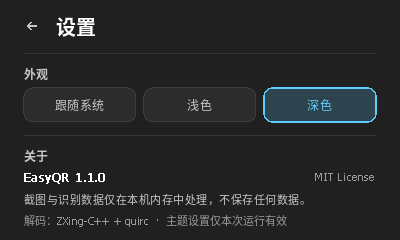
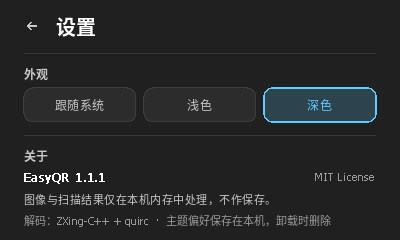
Persist theme preference (1.1.1)

diff --git a/src/main.cpp b/src/main.cpp
@@ -58,6 +58,27 @@ bool IsDarkThemePreferred() {
     return false;
 }
 
+ThemeMode LoadThemePreference() {
+    DWORD value = 0;
+    DWORD size = sizeof(value);
+    const LSTATUS status = RegGetValueW(HKEY_CURRENT_USER, L"Software\\EasyQR", L"ThemeMode",
+                                        RRF_RT_REG_DWORD, nullptr, &value, &size);
+    if (status == ERROR_SUCCESS && value <= 2) return static_cast<ThemeMode>(value);
+    return ThemeMode::System;
+}
+
+void SaveThemePreference(ThemeMode mode) {
+    HKEY key = nullptr;
+    if (RegCreateKeyExW(HKEY_CURRENT_USER, L"Software\\EasyQR", 0, nullptr, 0, KEY_SET_VALUE,
+                        nullptr, &key, nullptr) != ERROR_SUCCESS) {
+        return;
+    }
+    const DWORD value = static_cast<DWORD>(mode);
+    RegSetValueExW(key, L"ThemeMode", 0, REG_DWORD, reinterpret_cast<const BYTE*>(&value),
+                   sizeof(value));
+    RegCloseKey(key);
+}
+
 void SetDwmAttribute(HWND hwnd, DWORD attribute, const void* value, DWORD size) {
     if (hwnd) DwmSetWindowAttribute(hwnd, attribute, value, size);
 }
@@ -328,15 +349,15 @@ void DrawSettings(ID2D1HwndRenderTarget* rt) {
                TextAlign::Trailing, true);
 
     SetBrushColor(g_app.brush.Get(), g_app.palette.secondary);
-    DrawTextEx(rt, g_app.dwrite.Get(), L"截图与识别数据仅在本机内存中处理，不保存任何数据。",
+    DrawTextEx(rt, g_app.dwrite.Get(), L"图像与扫描结果仅在本机内存中处理，不作保存。",
                g_app.fonts.footer.Get(), D2D1::RectF(24.0f, 190.0f, 376.0f, 208.0f),
                g_app.brush.Get(), TextAlign::Leading, true, true);
 
     SetBrushColor(g_app.brush.Get(), g_app.palette.tertiary);
     DrawTextEx(rt, g_app.dwrite.Get(),
-               L"解码：ZXing-C++ + quirc  ·  主题设置仅本次运行有效", g_app.fonts.chipSmall.Get(),
-               D2D1::RectF(24.0f, 210.0f, 376.0f, 230.0f), g_app.brush.Get(),
-               TextAlign::Leading, true, true);
+               L"解码：ZXing-C++ + quirc  ·  主题偏好保存在本机，卸载时删除",
+               g_app.fonts.chipSmall.Get(), D2D1::RectF(24.0f, 210.0f, 376.0f, 230.0f),
+               g_app.brush.Get(), TextAlign::Leading, true, true);
 }
 
 void PaintMainWindow(HWND hwnd) {
@@ -619,6 +640,7 @@ void SetThemeMode(ThemeMode mode) {
     const bool dark = mode == ThemeMode::System ? g_app.systemDark : mode == ThemeMode::Dark;
     g_app.dark = dark;
     g_app.palette = MakePalette(dark);
+    SaveThemePreference(mode);
     ApplyWindowTheme(g_app.hwnd, dark);
     if (g_app.hwnd) InvalidateRect(g_app.hwnd, nullptr, FALSE);
 }
@@ -661,8 +683,9 @@ int WINAPI wWinMain(HINSTANCE instance, HINSTANCE, PWSTR, int showCommand) {
     }
 
     g_app.systemDark = IsDarkThemePreferred();
-    g_app.themeMode = ThemeMode::System;
-    g_app.dark = g_app.systemDark;
+    g_app.themeMode = LoadThemePreference();
+    g_app.dark = g_app.themeMode == ThemeMode::System ? g_app.systemDark
+                                                      : g_app.themeMode == ThemeMode::Dark;
     g_app.palette = MakePalette(g_app.dark);
 
     WNDCLASSEXW wc{};

diff --git a/src/version.h b/src/version.h
@@ -1,8 +1,8 @@
 #pragma once
 
-#define EASYQR_VERSION_STRING L"1.1.0"
-#define EASYQR_VERSION_COMMA 1, 1, 0, 0
-#define EASYQR_VERSION_ASCII "1.1.0"
+#define EASYQR_VERSION_STRING L"1.1.1"
+#define EASYQR_VERSION_COMMA 1, 1, 1, 0
+#define EASYQR_VERSION_ASCII "1.1.1"
 #define EASYQR_APP_NAME L"EasyQR"
 #define EASYQR_MAIN_CLASS L"EasyQR.MainWindow"
 #define EASYQR_OVERLAY_CLASS L"EasyQR.OverlayWindow"
